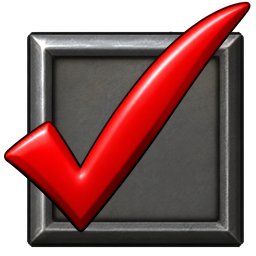
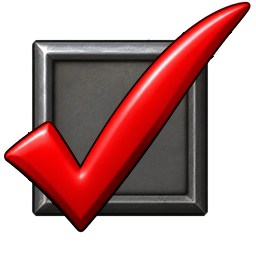
fix: draw the high-resolution checkbox box at the classic box bounds (#1770)
* fix: draw the high-resolution checkbox box at the classic box bounds

* docs: compare the checkbox box with the classic and previous artwork

diff --git a/docs/art/ui-checkbox/prepare_runtime.py b/docs/art/ui-checkbox/prepare_runtime.py
@@ -1,0 +1,116 @@
+"""Prepare the runtime checkbox sprites from the approved checkbox artwork.
+
+`approved/` holds the checked and unchecked sprites approved on 2026-09-22.
+They share one base, so the checkmark layer is recovered from the pair. Its
+coverage is exact wherever the base is not opaque. Where its antialiased rim
+covers the opaque base, the coverage is solved from the colour of the nearest
+solidly covered checkmark pixel. The base is fitted to the classic box bounds
+at 8x, and both checked states are composited over it again. The disabled
+state converts only the checkmark to Rec. 709 luma.
+"""
+
+from __future__ import annotations
+
+from pathlib import Path
+
+import numpy as np
+from PIL import Image
+from scipy import ndimage
+
+HERE = Path(__file__).resolve().parent
+ROOT = HERE.parents[2]
+OUT = ROOT / "crates/clonk-app/assets/ui-icons"
+CLASSIC = ROOT / "planet/Graphics.c4g/GUICheckbox.png"
+SCALE = 8
+SIZE = 32 * SCALE
+# Resampled margin around the box, for its antialiased edge.
+MARGIN = 6
+
+
+def load(path: Path) -> np.ndarray:
+    return np.asarray(Image.open(path).convert("RGBA")).astype(float) / 255
+
+
+def box_bounds(rgba: np.ndarray) -> tuple[int, int, int, int]:
+    """Bounds of the opaque, non-black pixels: the box without the classic
+    box's pure black drop shadow. `hd_ui_icons.rs` applies the same rule."""
+    inside = (rgba[..., 3] >= 128 / 255) & (rgba[..., :3].max(axis=2) >= 8 / 255)
+    ys, xs = np.nonzero(inside)
+    return int(xs.min()), int(ys.min()), int(xs.max()) + 1, int(ys.max()) + 1
+
+
+def premultiply(rgba: np.ndarray) -> np.ndarray:
+    return rgba[..., :3] * rgba[..., 3:4]
+
+
+def recover_checkmark(checked: np.ndarray, unchecked: np.ndarray) -> tuple[np.ndarray, np.ndarray]:
+    """Premultiplied colour and coverage of the checkmark composited over the
+    unchecked base in the approved checked sprite."""
+    covered = np.any(checked != unchecked, axis=2)
+    solid = ndimage.binary_erosion(covered, iterations=2)
+    _, nearest = ndimage.distance_transform_edt(~solid, return_indices=True)
+    rim = checked[..., :3][nearest[0], nearest[1]]
+    out, base = premultiply(checked), premultiply(unchecked)
+    # out = coverage * rim + base * (1 - coverage), in the least-squares sense.
+    delta = rim - base
+    spread = (delta**2).sum(axis=2)
+    estimate = ((out - base) * delta).sum(axis=2) / np.maximum(spread, 1e-9)
+    estimate = np.where(spread > (40 / 255) ** 2, estimate, 1)
+    # Coverage below these bounds would need a colour outside [0, 1].
+    brighter = np.where(out > base, (out - base) / np.maximum(1 - base, 1e-9), 0).max(axis=2)
+    darker = np.where(base > 0, 1 - out / np.maximum(base, 1e-9), 0).max(axis=2)
+    from_colour = np.where(solid, 1, np.clip(np.maximum(estimate, np.maximum(brighter, darker)), 0, 1))
+    base_alpha = unchecked[..., 3]
+    from_alpha = np.clip((checked[..., 3] - base_alpha) / np.maximum(1 - base_alpha, 1e-9), 0, 1)
+    coverage = np.where(covered, np.where(base_alpha <= 0.9, from_alpha, from_colour), 0)
+    colour = np.clip(out - base * (1 - coverage[..., None]), 0, coverage[..., None])
+    return colour, coverage
+
+
+def fit_base(unchecked: Path, source: tuple[int, ...], target: tuple[int, ...]) -> np.ndarray:
+    """Resample the approved base so its box spans the target bounds."""
+    left, top, right, bottom = source
+    x0, y0, x1, y1 = target
+    scale_x, scale_y = (x1 - x0) / (right - left), (y1 - y0) / (bottom - top)
+    region = (
+        left - MARGIN / scale_x,
+        top - MARGIN / scale_y,
+        right + MARGIN / scale_x,
+        bottom + MARGIN / scale_y,
+    )
+    size = (x1 - x0 + 2 * MARGIN, y1 - y0 + 2 * MARGIN)
+    fitted = Image.open(unchecked).convert("RGBa").resize(size, Image.Resampling.LANCZOS, box=region)
+    base = Image.new("RGBa", (SIZE, SIZE))
+    base.paste(fitted, (x0 - MARGIN, y0 - MARGIN))
+    return np.asarray(base.convert("RGBA")).astype(float) / 255
+
+
+def over(colour: np.ndarray, coverage: np.ndarray, base: np.ndarray) -> np.ndarray:
+    alpha = coverage + base[..., 3] * (1 - coverage)
+    out = colour + premultiply(base) * (1 - coverage[..., None])
+    straight = out / np.maximum(alpha[..., None], 1e-9)
+    return np.concatenate([straight, alpha[..., None]], axis=2)
+
+
+def save(rgba: np.ndarray, name: str) -> None:
+    pixels = np.clip(np.round(rgba * 255), 0, 255).astype(np.uint8)
+    pixels[pixels[..., 3] == 0] = 0
+    Image.fromarray(pixels).save(OUT / name, optimize=True)
+
+
+def main() -> None:
+    checked = load(HERE / "approved/checkbox-on.png")
+    unchecked = load(HERE / "approved/checkbox-off.png")
+    colour, coverage = recover_checkmark(checked, unchecked)
+    classic = box_bounds(load(CLASSIC)[:, :32])
+    target = tuple(bound * SCALE for bound in classic)
+    base = fit_base(HERE / "approved/checkbox-off.png", box_bounds(unchecked), target)
+    gray = 0.2126 * colour[..., 0] + 0.7152 * colour[..., 1] + 0.0722 * colour[..., 2]
+    save(base, "checkbox-off.png")
+    save(over(colour, coverage, base), "checkbox-on.png")
+    save(over(np.repeat(gray[..., None], 3, axis=2), coverage, base), "checkbox-disabled.png")
+    print(f"classic box {classic}; approved box {box_bounds(unchecked)} fitted to {target}")
+
+
+if __name__ == "__main__":
+    main()

diff --git a/crates/clonk-app/src/hd_ui_icons.rs b/crates/clonk-app/src/hd_ui_icons.rs
@@ -188,6 +188,56 @@ mod tests {
             .is_none());
     }
 
+    /// Bounds of a cell's opaque, non-black pixels, relative to the cell:
+    /// the box itself, without the pure black drop shadow the classic box
+    /// casts.
+    fn box_bounds(image: &ImageData, [left, top, width, height]: [u32; 4]) -> [u32; 4] {
+        (top..top + height)
+            .flat_map(|y| (left..left + width).map(move |x| (x, y)))
+            .filter(|&(x, y)| {
+                let offset = ((y * image.width() + x) * 4) as usize;
+                let pixel = &image.pixels()[offset..offset + 4];
+                pixel[3] >= 128 && pixel[..3].iter().any(|&channel| channel >= 8)
+            })
+            .fold([u32::MAX, u32::MAX, 0, 0], |[l, t, r, b], (x, y)| {
+                [
+                    l.min(x - left),
+                    t.min(y - top),
+                    r.max(x - left + 1),
+                    b.max(y - top + 1),
+                ]
+            })
+    }
+
+    #[test]
+    fn checkbox_art_keeps_the_classic_box_bounds_at_its_resolution() {
+        // The classic checkmark overhangs its box on every side. The
+        // replacement checkmark spans the classic one's extent, so it sits
+        // on the box the same way only if the box keeps the classic bounds.
+        let icons = prepared_sheets().unwrap();
+        let sheet = icons
+            .iter()
+            .find(|sheet| sheet.name == "GUICheckbox.png")
+            .unwrap();
+        let classic = box_bounds(&sheet.original, [0, 0, 32, 32]);
+        let replacement = sheet
+            .replacement
+            .region_replacement([0, 0, 32, 32])
+            .unwrap();
+        let scale = replacement.width() / 32;
+        let bounds = box_bounds(
+            replacement,
+            [0, 0, replacement.width(), replacement.height()],
+        );
+        assert!(
+            classic
+                .iter()
+                .zip(bounds)
+                .all(|(&classic, bound)| (classic * scale).abs_diff(bound) <= scale / 2),
+            "the replacement box {bounds:?} must keep the classic box {classic:?} at {scale}x"
+        );
+    }
+
     #[test]
     fn checkbox_states_share_identical_uncovered_base_pixels() {
         let icons = prepared_sheets().unwrap();

diff --git a/docs/art/ui-checkbox/build_comparison.py b/docs/art/ui-checkbox/build_comparison.py
@@ -1,0 +1,55 @@
+"""Lay out unscaled Audio options crops of the classic, previous and current
+checkbox artwork from two `CLONK_HD_UI_CAPTURE` directories.
+
+    python3 build_comparison.py <previous-captures> <current-captures> <output.png>
+
+The capture test writes `audio-before.png` with the classic sheets and
+`audio-after.png` with the high-resolution artwork. The classic row comes from
+the current directory; both directories hold identical classic frames.
+"""
+
+from __future__ import annotations
+
+import sys
+from pathlib import Path
+
+from PIL import Image, ImageDraw, ImageFont
+
+# Both checked boxes of the first column, and the unchecked and checked boxes
+# of the second, in the 3840x2160 frame at 3x display scaling.
+CROPS = ((1236, 424, 1636, 656), (1962, 424, 2362, 656))
+LABEL_WIDTH = 190
+GAP = 12
+BACKGROUND = (244, 241, 234)
+INK = (40, 36, 30)
+
+
+def main() -> None:
+    previous, current, output = (Path(argument) for argument in sys.argv[1:4])
+    rows = (
+        ("Classic", current / "audio-before.png"),
+        ("Before", previous / "audio-after.png"),
+        ("After", current / "audio-after.png"),
+    )
+    crop_width = sum(right - left for left, _, right, _ in CROPS) + GAP * (len(CROPS) - 1)
+    crop_height = max(bottom - top for _, top, _, bottom in CROPS)
+    sheet = Image.new(
+        "RGB",
+        (LABEL_WIDTH + crop_width + GAP, len(rows) * (crop_height + GAP) + GAP),
+        BACKGROUND,
+    )
+    draw = ImageDraw.Draw(sheet)
+    font = ImageFont.load_default(size=30)
+    for index, (label, path) in enumerate(rows):
+        frame = Image.open(path).convert("RGB")
+        top = GAP + index * (crop_height + GAP)
+        draw.text((GAP, top + crop_height // 2), label, fill=INK, font=font, anchor="lm")
+        left = LABEL_WIDTH
+        for crop in CROPS:
+            sheet.paste(frame.crop(crop), (left, top))
+            left += crop[2] - crop[0] + GAP
+    sheet.save(output, optimize=True)
+
+
+if __name__ == "__main__":
+    main()

diff --git a/docs/art/ui-checkbox/update_overview.py b/docs/art/ui-checkbox/update_overview.py
@@ -1,0 +1,48 @@
+"""Redraw the checkbox runtime tiles of `ui-icons-sprites.png` from the
+runtime sprites. Each tile shows its sprite over the panel beige, filling the
+rounded panel with bicubic filtering, as the overview draws every runtime
+sprite."""
+
+from pathlib import Path
+
+from PIL import Image, ImageDraw
+
+HERE = Path(__file__).resolve().parent
+ROOT = HERE.parents[2]
+OVERVIEW = HERE.parent / "ui-icons-sprites.png"
+CARD = (255, 255, 255, 255)
+PANEL = (238, 232, 220, 255)
+RADIUS = 5
+SUPERSAMPLE = 8
+# Runtime sprite panels of UI-14 Checkbox unchecked and UI-15 Checkbox checked.
+TILES = {
+    "checkbox-off.png": (726, 1345, 932, 1552),
+    "checkbox-on.png": (1195, 1345, 1401, 1552),
+}
+
+
+def panel_mask(size: tuple[int, int]) -> Image.Image:
+    width, height = size
+    large = Image.new("L", (width * SUPERSAMPLE, height * SUPERSAMPLE), 0)
+    ImageDraw.Draw(large).rounded_rectangle(
+        (0, 0, width * SUPERSAMPLE - 1, height * SUPERSAMPLE - 1),
+        radius=RADIUS * SUPERSAMPLE,
+        fill=255,
+    )
+    return large.resize(size, Image.Resampling.BOX)
+
+
+def main() -> None:
+    overview = Image.open(OVERVIEW).convert("RGBA")
+    for name, (left, top, right, bottom) in TILES.items():
+        size = (right - left, bottom - top)
+        sprite = Image.open(ROOT / "crates/clonk-app/assets/ui-icons" / name).convert("RGBa")
+        tile = Image.new("RGBA", size, PANEL)
+        tile.alpha_composite(sprite.resize(size, Image.Resampling.BICUBIC).convert("RGBA"))
+        overview.paste(Image.new("RGBA", size, CARD), (left, top))
+        overview.paste(tile, (left, top), panel_mask(size))
+    overview.convert("RGB").save(OVERVIEW, optimize=True)
+
+
+if __name__ == "__main__":
+    main()

diff --git a/docs/art/ui-icons.md b/docs/art/ui-icons.md
@@ -9,7 +9,8 @@ counterparts. Recording off is grayscale with no checkmark. The unlocked lock
 uses the same rounded body, metal bands and rivets, with an open shackle.
 Both checkbox states use the exact same prepared unchecked base and a separate
 red checkmark. The disabled checked state desaturates only the checkmark;
-uncovered base pixels remain identical.
+uncovered base pixels remain identical. The base keeps the classic box
+bounds; see [Checkbox box](#checkbox-box).
 
 `ImageData` attaches replacements to cells in the original sheets. Facet draws
 resolve those cells, including clipped subrectangles, before sampling or GPU
@@ -51,7 +52,8 @@ These are unscaled crops of the application's retained GPU renderer at
 3840×2160 with 3× display scaling, using identical UI state. The before frame
 has the new batch disabled; the previously shipped options icons and Wipf
 remain enabled in both. The message dialog uses deterministic fixture text.
-These are rendered application screens, not generated mockups.
+These are rendered application screens, not generated mockups. They show the
+checkbox as approved on 2026-09-22, before its box took the classic bounds.
 
 - [Audio options, full native frame](ui-icons-audio.png)
 - [Voice options, full native frame](ui-icons-voice.png)
@@ -68,3 +70,33 @@ without GPU readback. The installed-app regression verifies all approved
 sources and both disabled checkbox phases. Frontend coverage checks clipped
 sampling and transparent-RGB normalization; asset coverage checks custom-sheet
 priority, stable texture identities, and shared checkbox pixels.
+
+## Checkbox box
+
+The checkbox box keeps the classic box bounds at 8×: x 32–208 and y 40–216 of
+the 256-pixel cell, from x 4–26 and y 5–27 of the classic 32-pixel cell. The
+approved checkmark spans the classic checkmark's extent, so it overhangs the
+box on every side and sits centred on it, as the classic checkmark does. The
+approved base drew a larger box, x 27–244 and y 32–247, which left the
+checkmark above and left of the box's centre and covering less of it.
+
+[`ui-checkbox/prepare_runtime.py`](ui-checkbox/prepare_runtime.py) prepares the
+three checkbox sprites from the approved pair kept in `ui-checkbox/approved/`:
+
+- It recovers the approved checkmark layer from the pair. The layer's coverage
+  is exact wherever the base is not opaque. Where the checkmark's antialiased
+  rim covers the opaque base, its coverage is solved from the colour of the
+  nearest solidly covered checkmark pixel.
+- It fits the approved base's box to the classic bounds with Lanczos
+  resampling in premultiplied alpha.
+- It composites the checkmark over the fitted base for the checked state, and
+  the checkmark's Rec. 709 luma for the disabled checked state.
+
+![Classic, previous and current checkboxes in the Audio options](ui-checkbox/box-proportions.png)
+
+These are unscaled crops of the Audio options, captured as above. The Classic
+row is the capture's classic side; the Before row is the same capture on the
+previous revision.
+`ui-checkbox/build_comparison.py <previous> <current> <output>` lays out the
+two capture directories. `ui-checkbox/update_overview.py` redraws the checkbox
+tiles of the sprite overview from the runtime sprites.
